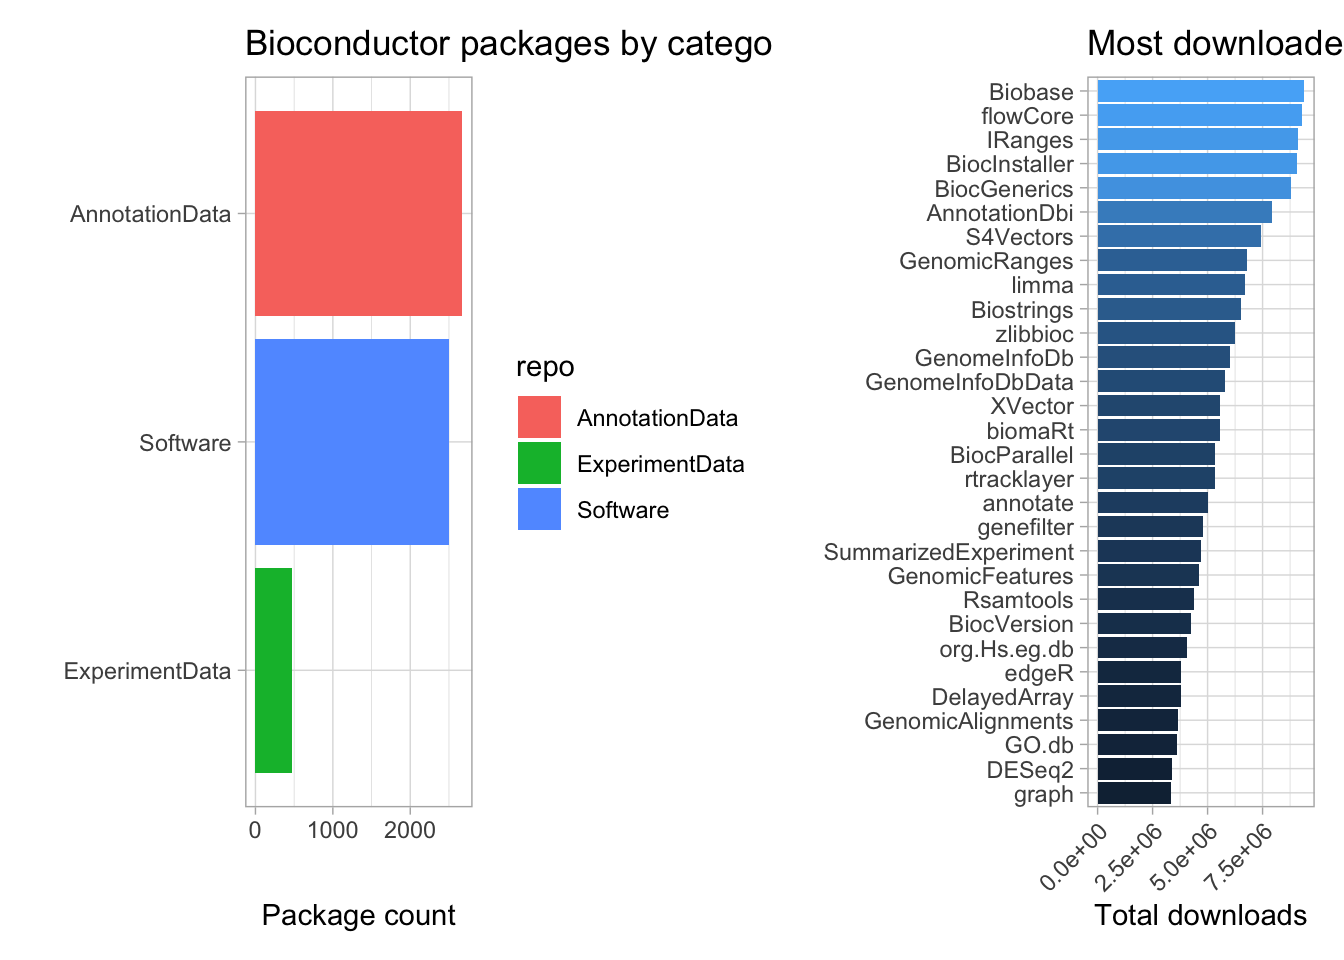
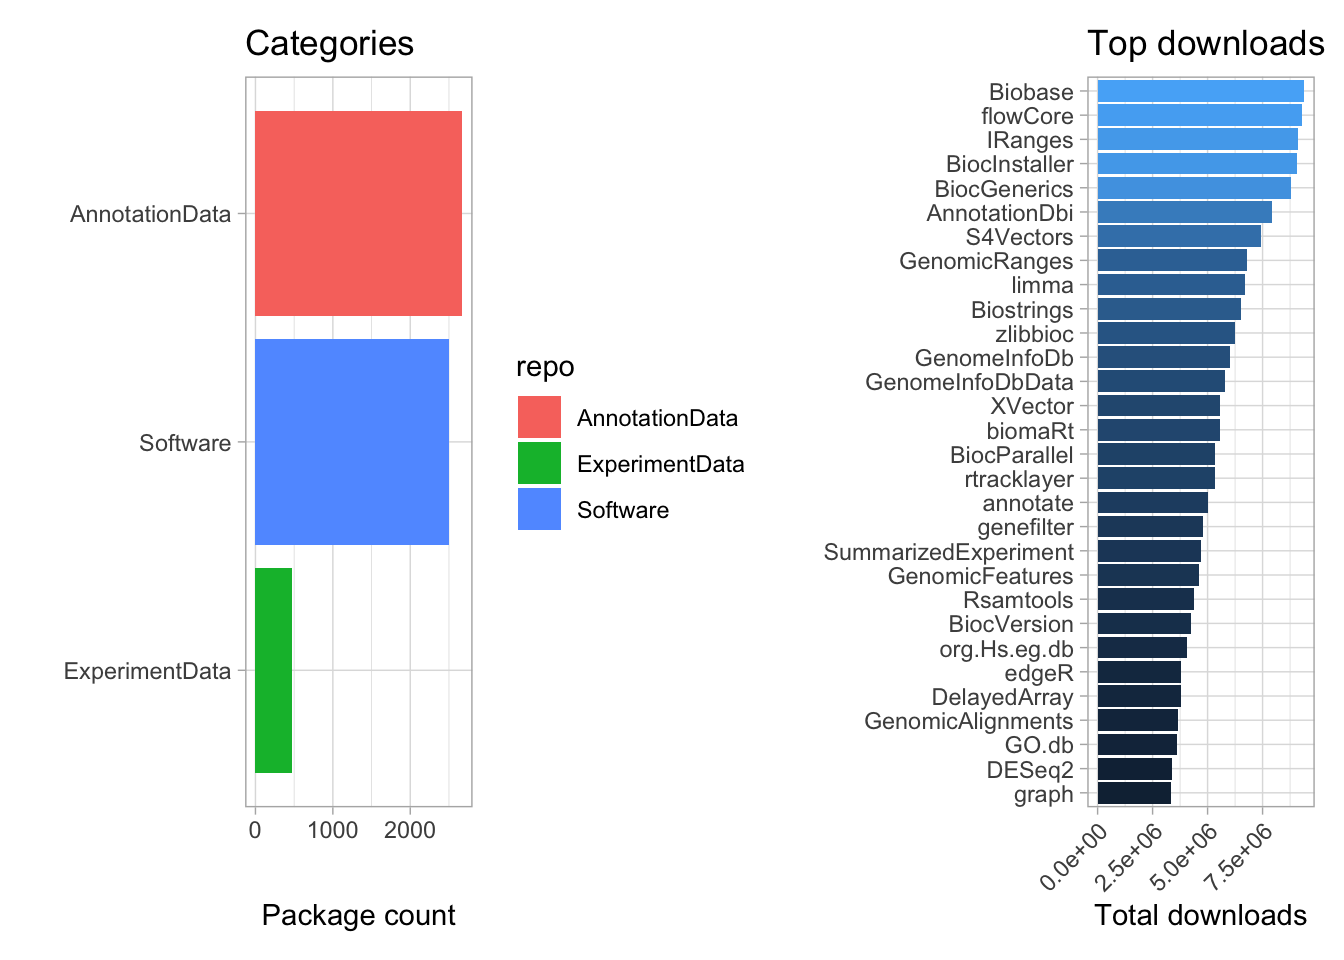
yeast post updates2

Changed region(s): [[0.1875, 0.0312, 0.5938, 0.0625], [0.8125, 0.0312, 1.0, 0.0625]]

diff --git a/content/post/2021-10-11-yeast-genome/index.html b/content/post/2021-10-11-yeast-genome/index.html
@@ -39,10 +39,10 @@ library(Gviz)
 library(ggbio)
 library(BiocPkgTools)
 library(biocViews)</code></pre>
-<div id="intro" class="section level2">
-<h2>Intro</h2>
-<p>This post provides a friendly introduction to working with packages from the Bioconductor repository for computational biology. Bioconductor contains over 5000 peer reviewed packages that can be categorized as data analysis software, experimental data or annotation data. We can explore the Bioconductor repository using the <code>BiocPkgTools</code> package. Here, I visualize the top 30 downloaded packages, the count of packages by category and the number of packages added in each category by year.</p>
-<p>There are over 2500 annotation packages and slightly less in the software category. Let’s see what the top packages are.</p>
+<div id="what-is-bioconductor" class="section level2">
+<h2>What is Bioconductor</h2>
+<p>Bioconductor is a repository of packages for bioinformatics. Bioconductor contains over 5000 peer reviewed packages that can be categorized as data analysis software, experimental data or annotation data. We can explore the Bioconductor repository using the <code>BiocPkgTools</code> package.</p>
+<p>Let’s visualize the package count by category and the most downloaded packages.</p>
 <pre class="r"><code>#library(BiocPkgTools)
 pkgs &lt;- biocDownloadStats()
 
@@ -58,7 +58,7 @@ pkgs %&gt;%
   dplyr::count() %&gt;% 
   ggplot(aes(n, fct_reorder(repo, n), fill = repo)) +
   geom_col() +
-  labs(title = &quot;Bioconductor packages by category&quot;,
+  labs(title = &quot;Categories&quot;,
        x = &quot;Package count&quot;,
        y = &quot;&quot;,
        color = &quot;Category&quot;)
@@ -71,7 +71,7 @@ top_downloads &lt;- pkgs %&gt;%
   ggplot(aes(tot_downloads, Package, fill = tot_downloads)) +
   geom_col() +
   theme(legend.position = &quot;none&quot;) +
-  labs(title = &quot;Most downloaded&quot;,
+  labs(title = &quot;Top downloads&quot;,
        x = &quot;Total downloads&quot;,
        y = &quot;&quot;) +
   scale_x_continuous(labels = scales::scientific) +
@@ -80,7 +80,7 @@ top_downloads &lt;- pkgs %&gt;%
 
 package_category | top_downloads</code></pre>
 <p><img src="{{< blogdown/postref >}}index_files/figure-html/unnamed-chunk-2-1.png" width="672" /></p>
-<p>Let’s also look at the top 8 most downloaded packages in each category.</p>
+<p>We can all visualize the most popular packages in each category.</p>
 <pre class="r"><code>library(tidytext)
 
 pkgs %&gt;%
@@ -100,7 +100,7 @@ pkgs %&gt;%
        x = &quot;Total downloads&quot;,
        y = &quot;&quot;)</code></pre>
 <p><img src="{{< blogdown/postref >}}index_files/figure-html/unnamed-chunk-3-1.png" width="672" /></p>
-<p>Let’s also look at how the categories have grown over time.</p>
+<p>Let’s finish our exploration of the Bioconductor repository by looking at how the package count has grown over time in each category.</p>
 <pre class="r"><code>pkgs %&gt;%  firstInBioc() %&gt;% 
   group_by(Date, repo) %&gt;% 
   count() %&gt;% 
@@ -117,9 +117,9 @@ pkgs %&gt;%
 </div>
 <div id="diving-into-the-yeast-genome" class="section level2">
 <h2>Diving into the yeast genome</h2>
-<p>In this post, we will use several packages that allow the researcher to access and manipulate genomic data in R. We will use <code>BSgenome.Scerevisiae.UCSC.sacCer3</code> to access yeast sequence data, <code>TxDb.Scerevisiae.UCSC.sacCer3.sgdGene</code> to access genetic ranges such as genes, transcripts, promoters, and various annotation sources available in <code>org.Sc.sgd.db</code>.</p>
-<p>These package are available for other model organisms as well. For instance, the function, <code>available.genomes()</code>, provides a complete list of all available BSgenome database objects. The sequences derived from BSgenome objects are of the <code>DNAString</code> class and can be modified with functions from the <code>Biostrings</code> package.</p>
-<p>Let’s take a look inside our BSgenome object for yeast.</p>
+<p>In this post, we will use several packages that allow the bioinformatician to access and manipulate genomic data in R. We will use <code>BSgenome.Scerevisiae.UCSC.sacCer3</code> to access yeast sequence data, <code>TxDb.Scerevisiae.UCSC.sacCer3.sgdGene</code> to access genetic ranges such as genes, transcripts, promoters, and use various annotation sources available in the <code>org.Sc.sgd.db</code> package.</p>
+<p>Although these three packages are specific to the yeast genome, there are similar packages for other model organisms. For instance to access sequence for the human genome, we load the <code>BSgenome.Hsapiens.UCSC.hg19</code> package. The function, <code>available.genomes()</code>, provides a complete list of available BSgenome database objects. Sequences derived from BSgenome objects are of the <code>DNAString</code> class and can be modified with functions from the <code>Biostrings</code> package.</p>
+<p>Let’s take a look inside the yeast BSgenome object.</p>
 <pre class="r"><code>library(BSgenome.Scerevisiae.UCSC.sacCer3)
 library(Biostrings)
 
@@ -181,7 +181,7 @@ yeast %&gt;% seqnames()</code></pre>
 <pre><code>##  [1] &quot;chrI&quot;    &quot;chrII&quot;   &quot;chrIII&quot;  &quot;chrIV&quot;   &quot;chrV&quot;    &quot;chrVI&quot;   &quot;chrVII&quot; 
 ##  [8] &quot;chrVIII&quot; &quot;chrIX&quot;   &quot;chrX&quot;    &quot;chrXI&quot;   &quot;chrXII&quot;  &quot;chrXIII&quot; &quot;chrXIV&quot; 
 ## [15] &quot;chrXV&quot;   &quot;chrXVI&quot;  &quot;chrM&quot;</code></pre>
-<p>It’s worth noting that the BSgenome object points to our genome object but does not download data for speed. There are several function that can be used to access the gene sequence when we want it.</p>
+<p>The BSgenome object points to our genome object but does not import data into memory unless we ask for it. Let’s take a look at a couple of the functions for importing our sequence data.</p>
 <pre class="r"><code># Select chromosome sequence by name, one or many. And select start, end and or width:
 getSeq(yeast, &quot;chrM&quot;, end = 50)</code></pre>
 <pre><code>## 50-letter DNAString object
@@ -191,9 +191,9 @@ subseq(yeast$chrI, 1,100)</code></pre>
 <pre><code>## 100-letter DNAString object
 ## seq: CCACACCACACCCACACACCCACACACCACACCACA...CTAACACTACCCTAACACAGCCCTAATCTAACCCTG</code></pre>
 </div>
-<div id="create-a-custom-summary-function" class="section level2">
-<h2>Create a custom summary function</h2>
-<p>Let’s create a summary function that returns chromosome names, the length of each chromosome and the GC percentage for each.</p>
+<div id="a-custom-summary-function" class="section level2">
+<h2>A custom summary function</h2>
+<p>For fun, let’s create a summary function that returns the name, length and GC percentage for each chromosome</p>
 <pre class="r"><code># Yeast genome summary function: summarize_yeast_genome()
 summarize_yeast_genome &lt;- function() {
 
@@ -227,7 +227,7 @@ summarize_yeast_genome()</code></pre>
 </div>
 <div id="extracting-the-imp3-gene" class="section level2">
 <h2>Extracting the imp3 gene</h2>
-<p>After we introduce range objects and annotation, I will show how we can access a gene sequence by gene ID. Without that information, I will need to find the ranges of the gene and create a custom GRanges object. Here, I use the Imp3 start and end sequence (found online) and use the <code>matchPattern()</code> function to find the start and end of the sequence. I also use <code>countPattern()</code> to make sure that the sequence is only found once in the genome. Finally, I create a custom GRanges object and <code>getSeq()</code> to retrieve the sequence. I can then use <code>translate()</code> to pull the amino acid sequence.</p>
+<p>After we introduce range objects and annotation, I will show how we can access a gene sequence by gene ID. Without that information, we need to know the ranges of the gene and create a custom GRanges object. Here, I use the Imp3 start and end sequence (<a href="https://www.yeastgenome.org/locus/S000001191/sequence" class="uri">https://www.yeastgenome.org/locus/S000001191/sequence</a>) and use the <code>matchPattern()</code> function from <code>Biostrings</code> to find the start and end of the sequence. I also use <code>countPattern()</code> to make sure that the sequence is found only once in the genome. After creating a GRanges object we can get the gene sequence with <code>getSeq()</code> and the amino acid sequence with <code>translate()</code>.</p>
 <pre class="r"><code># imp3 yeast gene on chrVIII
 imp3_start &lt;- &quot;ATGGTTAGAAAACTAAAGCATCATGAGCAAAAGTTATTGAAAAAAGTAGA&quot;
 
@@ -278,7 +278,7 @@ imp3_protein</code></pre>
 </div>
 <div id="working-with-txdb-objects" class="section level2">
 <h2>Working with TxDb objects</h2>
-<p>The TxDb package can be used to access important ranges including, promoters, genes, exons and transcripts for various organisms. TxDb objects are essentially a database containing information we would store in GTF/GFF files. The functions to work with TxDb objects are mostly from the <code>GenomicFeatures</code> package. When we use a function such as <code>gene()</code>, the function will return a GRanges object. The function <code>.S4methods(class = 'GenomicRanges')</code> provides a summary list of available methods to work with the GRanges object.</p>
+<p>The TxDb package can be used to access important ranges including, promoters, genes, exons and transcripts. Model organisms TxDb objects are often pre-packaged but you can also make you own TxDb object since it is essentially a database object containing information we would normally store in GTF/GFF files. The functions to work with TxDb objects are mostly from the <code>GenomicFeatures</code> package. When we use a function such as <code>gene()</code>, the function will return a GRanges object with the gene coordinates for each chromosome. The function <code>.S4methods(class = 'GenomicRanges')</code> provides a summary list of available methods to work with the GRanges object.</p>
 <pre class="r"><code>#BiocManager::install(&quot;TxDb.Scerevisiae.UCSC.sacCer3.sgdGene&quot;)
 # .S4methods(class = &#39;GenomicRanges&#39;) find available methods
 library(TxDb.Scerevisiae.UCSC.sacCer3.sgdGene)
@@ -452,6 +452,6 @@ tfidf %&gt;%
 </div>
 <div id="outro" class="section level2">
 <h2>Outro</h2>
-<p>We looked at several essential Bioconductor packages for accessing genomic reference data. We also used several complementary packages for data manipulation, including <code>Biostrings</code>, <code>GenomicRanges</code>, <code>GenomicFeatures</code> and <code>ggbio</code>. In a follow up post, I plan to explore the <code>Gviz</code> package which can be used to create custom data track visualizations.</p>
+<p>We looked at several essential Bioconductor packages for accessing genomic reference data. We also used several essential packages for data manipulation, including <code>Biostrings</code>, <code>GenomicRanges</code>, <code>GenomicFeatures</code>, <code>Plyranges</code> and <code>ggbio</code>. In a follow up post, I plan to explore yeast genome further with data from the <code>yeastExpData</code> package and the <code>yeastNagalakshmi</code> package.</p>
 </div>
 </div>
